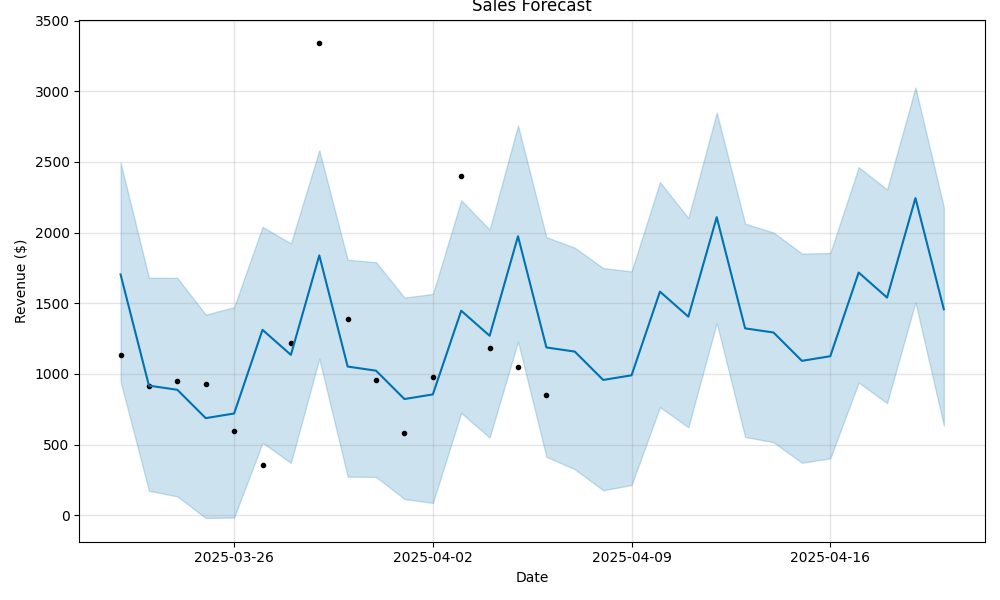
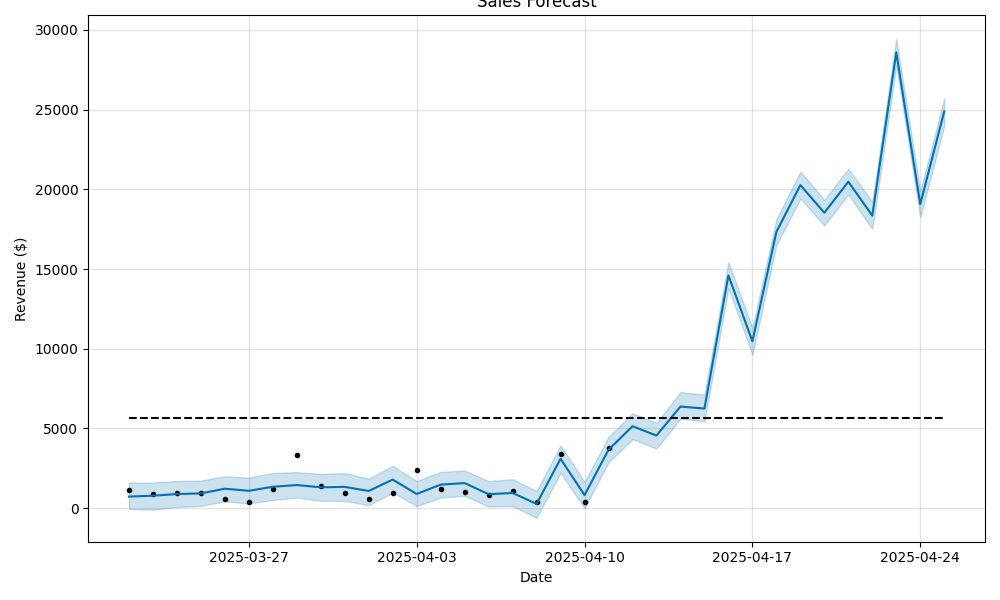
Enhance sales forecast realism: implemented Prophet logistic growth. Add sales forecast visualization screenshot to README

diff --git a/scripts/predictive_analytics/sales_forecast.py b/scripts/predictive_analytics/sales_forecast.py
@@ -4,6 +4,8 @@ from sqlalchemy import create_engine
 from dotenv import load_dotenv
 import os
 import matplotlib.pyplot as plt
+from sklearn.metrics import mean_absolute_error, mean_squared_error
+from prophet.make_holidays import make_holidays_df
 
 load_dotenv()
 
@@ -32,18 +34,64 @@ ORDER BY ds;
 
 df_sales = pd.read_sql(query, engine)
 
-# Prophet model for forecasting
-model = Prophet()
-model.fit(df_sales)
+# Split into training and validation sets (last 14 days for validation)
+train = df_sales.iloc[:-14]
+valid = df_sales.iloc[-14:]
+
+# Include holidays (adjust country as needed)
+holidays = make_holidays_df(year_list=[2024, 2025], country="US")
+
+# Prophet model with enhanced settings
+model = Prophet(
+    holidays=holidays,
+    seasonality_mode="multiplicative",
+    yearly_seasonality=True,
+    weekly_seasonality=True,
+    daily_seasonality=False,
+)
+
+# Train model on training data
+model.fit(train)
+
+# Validate predictions
+forecast_valid = model.predict(valid[["ds"]])
+valid = valid.copy()
+valid["predicted"] = forecast_valid["yhat"].values
+
+# Calculate accuracy metrics
+mae = mean_absolute_error(valid["y"], valid["predicted"])
+rmse = mean_squared_error(valid["y"], valid["predicted"])
+rmse = rmse**0.5  # Clearly calculate RMSE
+
+
+print(f"Validation MAE: {mae:.2f}")
+print(f"Validation RMSE: {rmse:.2f}")
+
+# Add a 'cap' to limit growth (set to 1.5x max historical sales)
+cap_value = df_sales["y"].max() * 1.5
+df_sales["cap"] = cap_value
+
+
+# Create a new Prophet instance for retraining on entire dataset
+model_full = Prophet(
+    growth="logistic",
+    holidays=holidays,
+    seasonality_mode="multiplicative",
+    yearly_seasonality=True,
+    weekly_seasonality=True,
+    daily_seasonality=False,
+)
+
+# Retrain model on entire dataset before forecasting future
+model_full.fit(df_sales)
 
 # Create future dataframe (forecast next 14 days)
-future = model.make_future_dataframe(periods=14)
-
-# Forecast future sales
-forecast = model.predict(future)
+future = model_full.make_future_dataframe(periods=14)
+future["cap"] = cap_value
+forecast = model_full.predict(future)
 
 # Plot forecast
-fig = model.plot(forecast)
+fig = model_full.plot(forecast)
 plt.title("Sales Forecast")
 plt.xlabel("Date")
 plt.ylabel("Revenue ($)")

diff --git a/README.md b/README.md
@@ -30,6 +30,8 @@
 ### ⚡ Getting Started
 
 - [Quick Start](#-quick-start)
+- [Features & Business Insights](#-features--business-insights)
+- [Predictive Analytics & Sales Forecasting](#-predictive-analytics--sales-forecasting)
 - [Airflow Automation](#-airflow-automation)
 - [Running the Project](#-running-the-project)
 - [Running the Streamlit Dashboard](#-running-the-streamlit-dashboard)
@@ -206,6 +208,24 @@ The Shopify Sales Dashboard provides actionable analytics tailored explicitly to
 - **Customer Retention Analysis**: Track and display the ratio of new versus returning customers, identifying key retention trends and high-CLV customers.
 - **Revenue Trends & Seasonality**: Offer clear insights into sales trends, seasonal variations, and the impact of discounts on sales.
 - **Operational Efficiency**: Visualize preferred shipping methods and the effectiveness of promotional strategies.
+
+---
+
+## 📈 Predictive Analytics & Sales Forecasting
+
+This project currently implements a straightforward Prophet forecasting model to predict Shopify store sales:
+
+- Forecasts future sales clearly based on historical revenue.
+- Generates daily revenue predictions for the next 14 days.
+- Provides basic visual forecasting plots.
+- Sales forecasts use Prophet's logistic growth model to clearly prevent unrealistic exponential trends, producing more reliable and believable predictions.
+
+**Upcoming enhancements clearly planned:**
+
+- Model validation and accuracy measurement.
+- Integration of holidays and special events.
+- Advanced parameter tuning for improved accuracy.
+- Interactive forecast visualizations.
 
 ---
 
